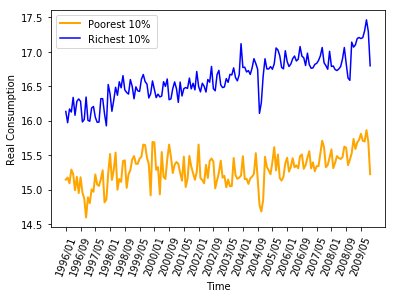
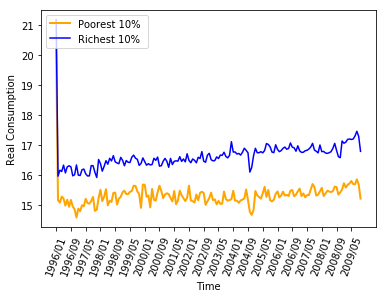
Rebased agg CPI, updated figures

Changed region(s): [[0.0, 0.0302, 0.9948, 0.7852], [0.1244, 0.755, 0.9326, 0.9966], [0.1865, 0.0604, 0.4041, 0.1812]]

diff --git a/InfInequality/6_agg_real_consumption_with_agg_CPI-U.py b/InfInequality/6_agg_real_consumption_with_agg_CPI-U.py
@@ -3,7 +3,20 @@ import pandas as pd
 import numpy as np
 from functions import gini
 from os import listdir
+import os
+#-----------------------------------------------
+# Clear directory before running the code anew
+#-----------------------------------------------
 
+folder = "../out_data_mngment/data_for_final_analysis_agg_cpi/"
+for the_file in os.listdir(folder):
+    file_path = os.path.join(folder, the_file)
+    try:
+        if os.path.isfile(file_path):
+            os.unlink(file_path)
+        #elif os.path.isdir(file_path): shutil.rmtree(file_path)
+    except Exception as e:
+        print(e)
 # ------------------------------------------------------------------------
 # DataFrame of inequality time series
 # ------------------------------------------------------------------------
@@ -27,6 +40,7 @@ to_drop = pd.read_pickle("../out_data_mngment/codes_negatives/negatives_to_drop"
 CPI_series = pd.read_csv("../original_data/CPI_Data/CPI_agg_series.csv")[["Year","Period","Value"]]
 for i in range(len(CPI_series)):
     CPI_series.at[i,"Period"] = str(CPI_series.at[i,"Period"][1:])+'_'+str(CPI_series.at[i,"Year"])
+    CPI_series.at[i,"Value"] =  CPI_series.at[i,"Value"] /  CPI_series.at[12,"Value"]
 #CPI_series.loc[:]["Period"]=CPI_series.loc[:]["Period"][1:]
 #CPI_series['mm/yyyy'] = CPI_series["Period"][1:]+CPI_series["Year"]
 

diff --git a/InfInequality/6_agg_real_consumption.py b/InfInequality/6_agg_real_consumption.py
@@ -3,6 +3,23 @@ import pandas as pd
 import numpy as np
 from functions import gini
 from os import listdir
+import os
+
+#-----------------------------------------------
+# Clear directory before running the code anew
+#-----------------------------------------------
+
+folder = "../out_data_mngment/data_for_final_analysis/"
+for the_file in os.listdir(folder):
+    file_path = os.path.join(folder, the_file)
+    try:
+        if os.path.isfile(file_path):
+            os.unlink(file_path)
+        #elif os.path.isdir(file_path): shutil.rmtree(file_path)
+    except Exception as e:
+        print(e)
+
+
 
 # ------------------------------------------------------------------------
 # DataFrame of inequality time series
